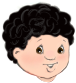
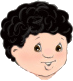
Se corrigen errores en la actividad 1
* Se cambia el antiguo background por el nuevo
* Se modifica el nuevo background para que no colisionen las partes
  desaparecidas de kiko cuando estan en la posicion correcta
* Se corrige el bug que permitia mover las partes que ya se habian
  colocado correctamente
* Se cambia la posicion inicial de las partes desaparecidas
* Se mueven las instrucciones y se reduce su tamaño para que encaje con
  el background
* Se mejora el movimiento del puntero

diff --git a/src/missing.py b/src/missing.py
@@ -37,8 +37,7 @@ class bodyPart(Sprite):
             self.small = 1
 	
     def update(self, pos):
-        self.rect.x = pos[0]
-        self.rect.y = pos[1]
+        self.rect.x, self.rect.y = pos
 
 
 class Hand(Sprite):
@@ -60,10 +59,7 @@ class Hand(Sprite):
             self.color = 0
 
     def update(self, mover=(0,0)):
-        if mover[0] - 10 >= 0:
-            self.rect.x = mover[0]
-        if mover[1] - 15 >= 0:
-            self.rect.y = mover[1]
+        self.rect.x, self.rect.y = mover
         if self.color == 0:
             self.image = self.normal
         if self.color == 1:
@@ -91,26 +87,26 @@ class Missing(Activity):
         return bodyparts
 
     def instruction_text(self):
-        font_title = pygame.font.SysFont("dejavusans", 35)
-        font_instructions = pygame.font.SysFont("dejavusans", 20)
+        font_title = pygame.font.SysFont("dejavusans", 24)
+        font_instructions = pygame.font.SysFont("dejavusans", 17)
         title = u"¿Qué le falta a Kiko en cada figura?"
         instructions = [u"A Kiko le desaparecieron algunas partes de"\
                 u" su cuerpo.", u"¿Puedes unirlas?"]
         text = font_title.render(title, True, (102, 102, 102))
-        text_pos = (290, 25)
+        text_pos = (169, 28)
         self.screen.blit(text, text_pos)
-        y = 45
+        y = 43
         line_width, line_height = font_instructions.size(instructions[0])
         for line in instructions:
             text = font_instructions.render(line, True, (102, 102, 102))
             y += line_height
-            text_pos = (300, y)
+            text_pos = (172, y)
             self.screen.blit(text, text_pos)
 
     def setup(self):
         self.sprites  = pygame.sprite.OrderedUpdates()
-        self.pos_bodyparts = {'legs': (325, 150), 'arms': (350, 220), \
-                'chest': (380, 270), 'head': (380, 320)}
+        self.pos_bodyparts = {'legs': (367, 200), 'arms': (380, 270), \
+                'chest': (400, 320), 'head': (396, 370)}
         # list of all bodyparts and positions on the screen
         self.correctbodyparts = ['legs', 'arms', 'chest', 'head']
         self.hand = Hand() #load hand
@@ -118,9 +114,9 @@ class Missing(Activity):
         self.icons.add([Icons('stop')])
         self.correct = pygame.sprite.Group()
         self.bodyparts = self.groupbodyparts(self.pos_bodyparts)
-        self.containers = [pygame.Rect(46, 239, 316, 104), \
-                pygame.Rect(459, 194, 237, 71), pygame.Rect(152, 429, \
-                97, 82), pygame.Rect(489, 369, 115, 74)]
+        self.containers = [pygame.Rect(145, 257, 185, 103), \
+                pygame.Rect(557, 182, 145, 79), pygame.Rect(195, 431, \
+                58, 77), pygame.Rect(575, 349, 73, 81)]
         self.sprites = pygame.sprite.OrderedUpdates()
         self.sprites.add([self.icons, self.bodyparts, self.hand])
         pygame.mouse.set_visible( False ) #hide pointer
@@ -135,6 +131,7 @@ class Missing(Activity):
         while True:
             for event in [ pygame.event.wait() ] + pygame.event.get():
                 pos = pygame.mouse.get_pos()
+                self.hand.update(pos)
                 if event.type == QUIT:
                     self.quit = True
                     return
@@ -152,10 +149,10 @@ class Missing(Activity):
                         self.quit = True
                         return
                     self.hand.change_hand()
-                    self.hand.update()
+                    self.hand.update(pos)
                 if event.type == MOUSEBUTTONUP:
                     self.hand.change_hand()
-                    self.hand.update()
+                    self.hand.update(pos)
                 if event.type == MOUSEBUTTONUP and selection:
                     self.button_down = 0
                     bodypart_in_container = \
@@ -164,6 +161,8 @@ class Missing(Activity):
                         if selection.name == \
                                 self.correctbodyparts[bodypart_in_container[0]]:
                                     left, top, width, height = self.containers[bodypart_in_container[0]]
+                                    selection.kill()
+                                    selection.add(self.sprites)
                                     selection.rect = \
                                             pygame.Rect(left + (width - \
                                             selection.size_x)/2, top + (height - \
